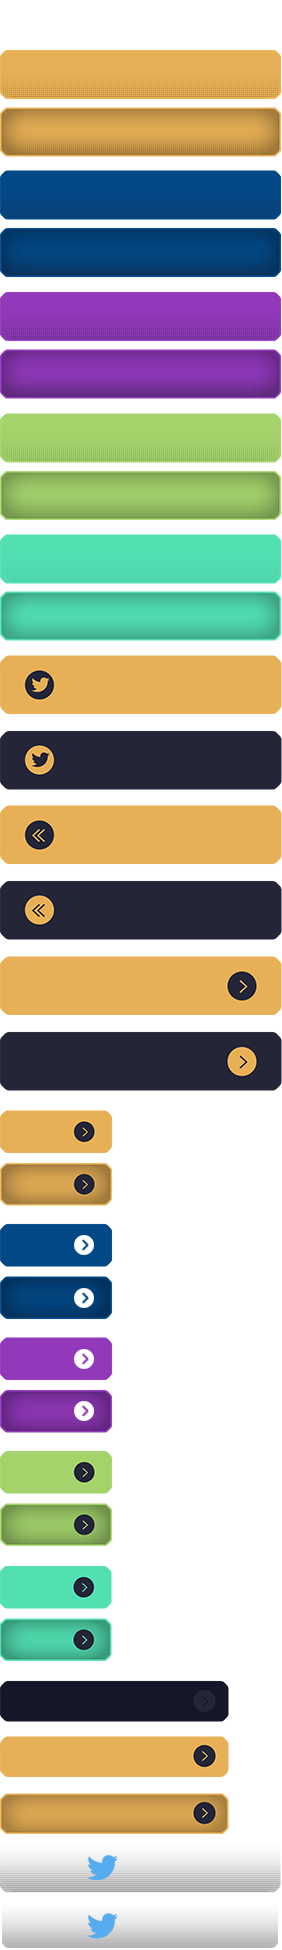
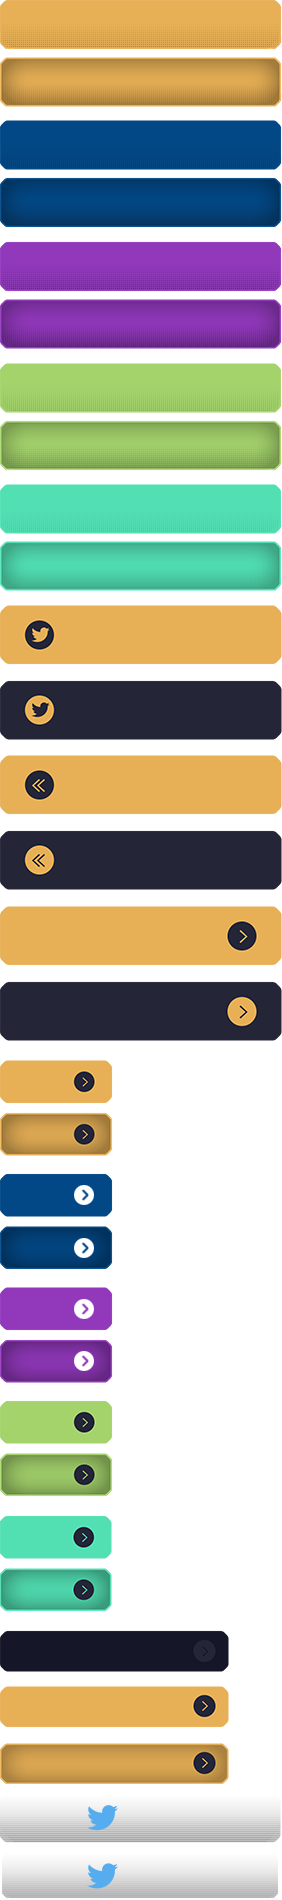
IOS fix

diff --git a/public/css/main.css b/public/css/main.css
@@ -87,12 +87,12 @@ a.button, a.button-big{
 	overflow: visible;
 	width: 229px;
 	height: 41px;
-	background-position: 0 -1736px;
+	background-position: 0 -1686px;
 	text-align: left;
 	margin-bottom: 1em;
 }
 .button:hover {
-	background-position: 0 -1793px;
+	background-position: 0 -1743px;
 }
 .button.disabled,
 .button[disabled="disabled"] {
@@ -113,7 +113,7 @@ a.button-big {
 	overflow: visible;
 	width: 257px;
 	height: 42px;
-	background-position: 0 -957px;
+	background-position: 0 -907px;
 	text-align: left;
 	margin-bottom: 1em;
 	-webkit-border-radius: 9px;
@@ -124,7 +124,7 @@ a.button-big {
 	box-shadow: 0px 0px 25px -2px rgba(0,0,0,0.5);
 }
 a.button-big:hover {
-	background-position: 0 -1032px;
+	background-position: 0 -982px;
 	color: #e7b056;
 }
 
@@ -141,44 +141,44 @@ a.button-big:hover {
 	overflow: visible;
 	width: 112px;
 	height: 43px;
-	background-position: 0 -1111px;
+	background-position: 0 -1061px;
 	text-align: left;
 	margin-bottom: 1em;
 }
 .button-small:hover {
-	background-position: 0 -1163px;
+	background-position: 0 -1113px;
 }
 .orange .button-small{
-	background-position: 0 -1111px;
+	background-position: 0 -1061px;
 }
 .orange .button-small:hover{
-	background-position: 0 -1163px;
+	background-position: 0 -1113px;
 }
 .dark-blue .button-small{
-	background-position: 0 -1224px;
+	background-position: 0 -1174px;
 	color: #FFF;
 }
 .dark-blue .button-small:hover{
-	background-position: 0 -1277px;
+	background-position: 0 -1227px;
 }
 .purple .button-small{
-	background-position: 0 -1337px;
+	background-position: 0 -1287px;
 	color: #FFF;
 }
 .purple .button-small:hover{
-	background-position: 0 -1390px;
+	background-position: 0 -1340px;
 }
 .green .button-small{
-	background-position: 0 -1451px;
+	background-position: 0 -1401px;
 }
 .green .button-small:hover{
-	background-position: 0 -1503px;
+	background-position: 0 -1453px;
 }
 .light-blue .button-small{
-	background-position: 0 -1566px;
+	background-position: 0 -1516px;
 }
 .light-blue .button-small:hover{
-	background-position: 0 -1618px;
+	background-position: 0 -1568px;
 }
 .button-tweet{
 	display: block;
@@ -186,7 +186,7 @@ a.button-big:hover {
 	font-weight: 400;
 	text-align:center;
 	background: url(../img/buttons.png);
-	background-position: 0 -1843px;
+	background-position: 0 -1793px;
 	width: 264px;
 	height: 49px;
 	overflow: hidden;
@@ -197,7 +197,7 @@ a.button-big:hover {
 	padding-left: 18px;
 }
 .button-tweet:hover{
-	background-position: 0 -1901px;
+	background-position: 0 -1851px;
 }
 .rel{
 	display: block;
@@ -224,41 +224,41 @@ a.button-big:hover {
 	overflow: hidden;
 }
 .orange .btn-q, .orange .icheckbox, .dark-blue .icheckbox.checked {
-	background-position: 0 -50px;
+	background-position: 0 0px;
 }
 .orange .btn-q:hover,
 .btn-q:hover, .orange .icheckbox:hover, .orange .icheckbox.hover, .dark-blue .icheckbox.checked.hover {
-	background-position: 0 -108px;
+	background-position: 0 -58px;
 }
 
 .dark-blue .btn-q, .dark-blue .icheckbox {
-	background-position: 0 -170px;
+	background-position: 0 -120px;
 	color:#fff;
 }
 .dark-blue .btn-q:hover, .dark-blue .icheckbox:hover, .dark-blue .icheckbox.hover {
-	background-position: 0 -228px;
+	background-position: 0 -178px;
 }
 
 .purple .btn-q, .purple .icheckbox {
-	background-position: 0 -292px;
+	background-position: 0 -242px;
 	color:#fff;
 }
 .purple .btn-q:hover, .purple .icheckbox:hover {
-	background-position: 0 -350px;
+	background-position: 0 -300px;
 }
 
 .green .btn-q, .green .icheckbox {
-	background-position: 0 -414px;
+	background-position: 0 -364px;
 }
 .green .btn-q:hover, .green .icheckbox {
-	background-position: 0 -471px;
+	background-position: 0 -421px;
 }
 
 .light-blue .btn-q, .light-blue .icheckbox {
-	background-position: 0 -535px;
+	background-position: 0 -485px;
 }
 .light-blue .btn-q:hover, .light-blue .icheckbox:hover {
-	background-position: 0 -592px;
+	background-position: 0 -542px;
 }
 .icheckbox, .checktext {
 	position: absolute;
